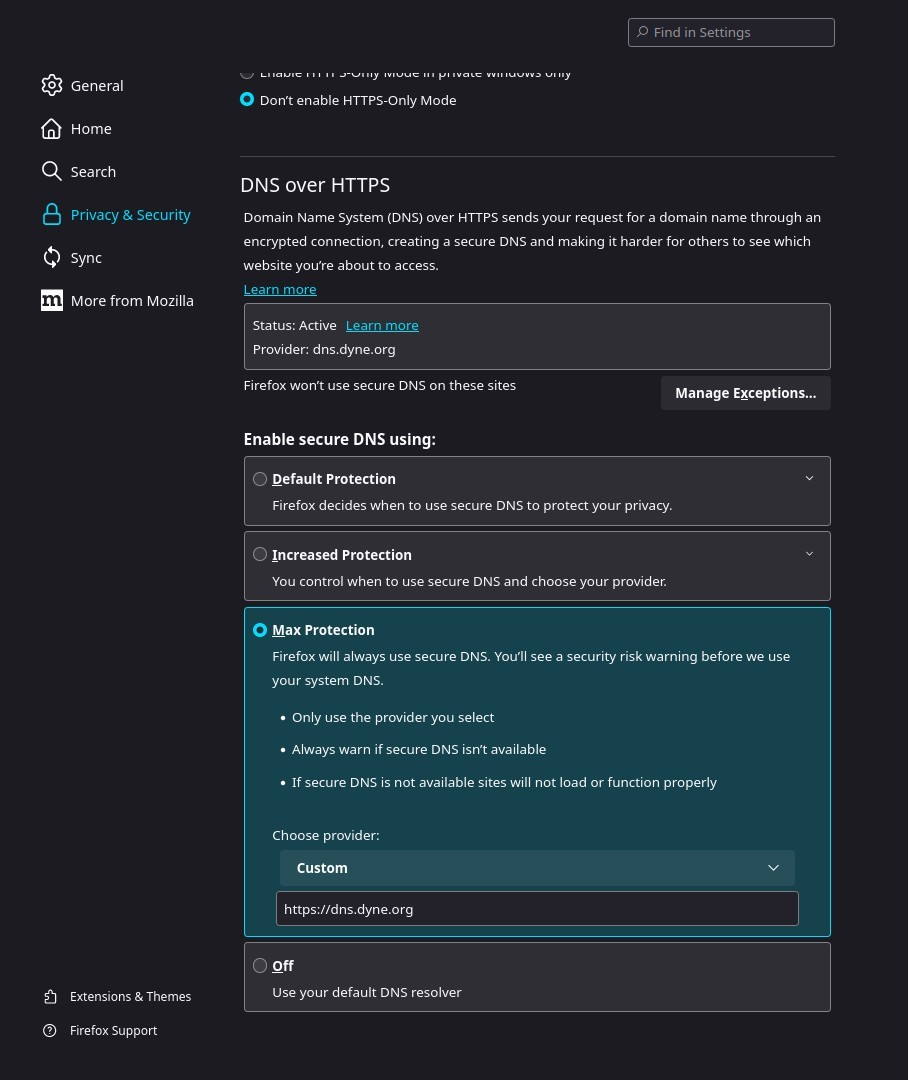
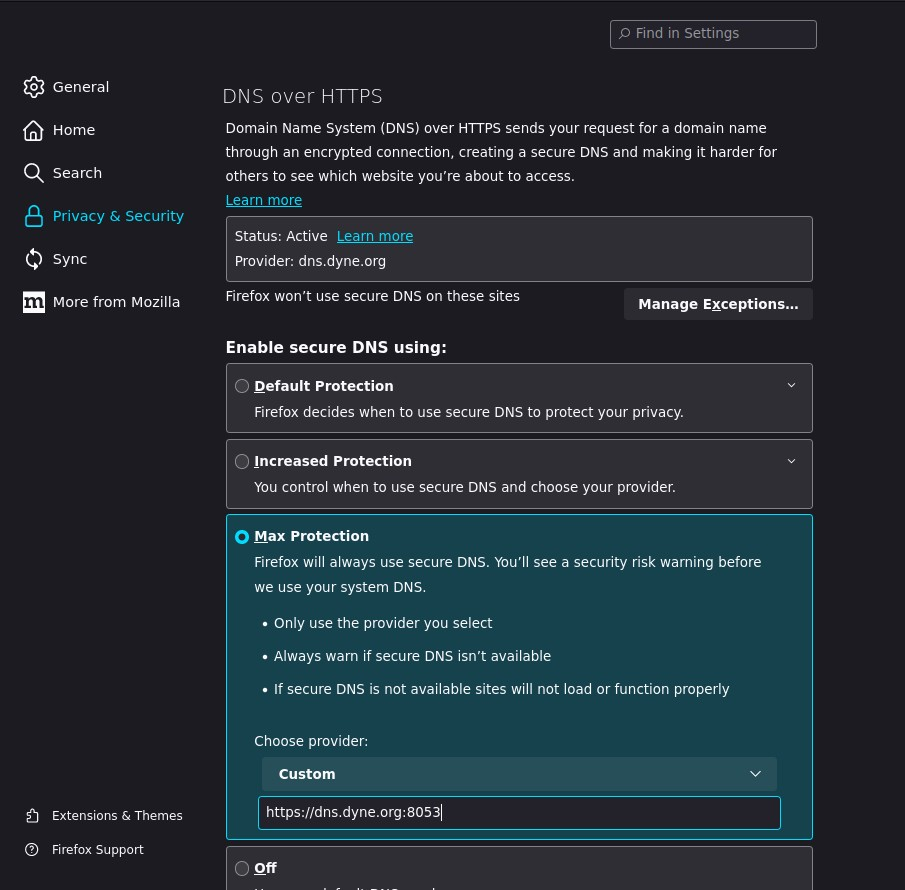
add custom port to text and images

diff --git a/docs/Configure.md b/docs/Configure.md
@@ -7,7 +7,7 @@ There are several browsers compatible with DNS over HTTPS (DoH). This protocol l
 1. Navigate to [about:preferences#privacy](about:preferences#privacy)
 1. Scroll down to access **DNS over HTTPS**.
 1. Under **Enable secure DNS using**, chose **Max Protection**.
-1. Under **Chose provider**, chose **Custom** and write **https://dns.dyne.org**.
+1. Under **Chose provider**, chose **Custom** and write **https://dns.dyne.org:8053**.
 1. Enjoy DOHD! See it works from [about:networking](about:networking)
 ![DOHD Firefox 1](assets/firefox-step-1.jpg)
 
@@ -15,8 +15,8 @@ There are several browsers compatible with DNS over HTTPS (DoH). This protocol l
 
 1. Navigate to [chrome://settings/security](chrome://settings/security)
 1. Scroll down and enable the **Use secure DNS** switch.
-1. Click **With Customised** and write **https://dns.dyne.org**
-![assets/chrome-step-1.png](assets/chrome-step-1.png)
+1. Click **With Customised** and write **https://dns.dyne.org:8053**
+![assets/chrome-step-1.png](assets/chrome-step-1.jpg)
 
 ## Microsoft Edge
 
@@ -24,12 +24,10 @@ There are several browsers compatible with DNS over HTTPS (DoH). This protocol l
 1. Go to `edge://settings/privacy`.
 1. Scroll down to the **Security** section.
 1. Make sure the **Use secure DNS** option is enabled.
-1. Choose a service provider and write **https://dns.dyne.org**.
+1. Choose a service provider and write **https://dns.dyne.org:8053**.
 
 ## Brave
 
 1. Navigate to [brave://settings/security](brave://settings/security)
 1. Enable **Use secure DNS**.
-1. Click **With Customised** and write **https://dns.dyne.org**
-![assets/brave-step-1.png](assets/brave-step-1.png)
-
+1. Click **With Customised** and write **https://dns.dyne.org:8053**
